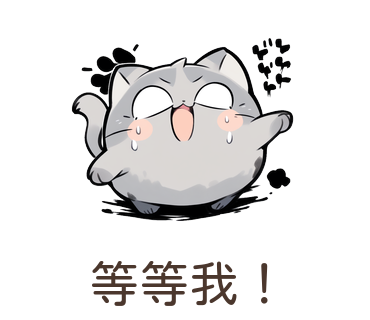
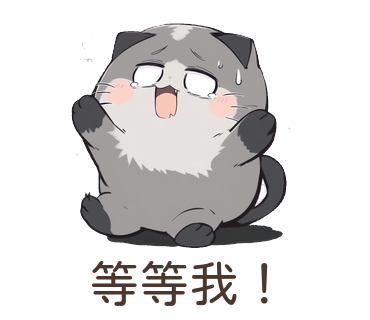
Fix v7 #04 #16, remove #01, add execution modes to CLAUDE.md
- Fix #05 broken legs, #16 broken image (user-requested)
- Rewrite #04/#05/#09/#16 prompts for better expression
- Remove #01 (約嗎) from prompts.json
- CLAUDE.md: add Explore/Pipeline execution modes

Changed region(s): [[0.1784, 0.0625, 0.8027, 0.7812]]

diff --git a/CLAUDE.md b/CLAUDE.md
@@ -156,6 +156,23 @@ Each language folder contains the final formatted stickers ready for packaging. 
 
 **Note:** `fix` command's built-in reformat does NOT apply text overlay. Always run `python main.py format` after `fix` to get text.
 
+## Execution Modes
+
+### Explore Mode (default)
+Triggered by: 測試、看看、試試、比較、給我看、風格、or any exploratory/creative request.
+- Do exactly what was asked, nothing more.
+- After completing the task, STOP and wait for the user's next instruction.
+- Do NOT run QA, checks, status polls, or any follow-up commands.
+- Do NOT run background commands to monitor progress after the task completes.
+
+### Pipeline Mode
+Triggered by: user explicitly requests a full pipeline step (generate, format, QA, fix, package) or says to run the full flow.
+- Follow the Development Workflow and QA Checklist below.
+- Advance through QA → fix → re-QA loops as documented.
+- Still wait for user confirmation at stage gates (zh → ja → package).
+
+**When in doubt, treat it as Explore Mode.** Only enter Pipeline Mode when the user clearly asks for a pipeline operation.
+
 ## Development Workflow
 
 1. **Design style** — Test prompts + IP-Adapter in ComfyUI UI, lock down reference image
